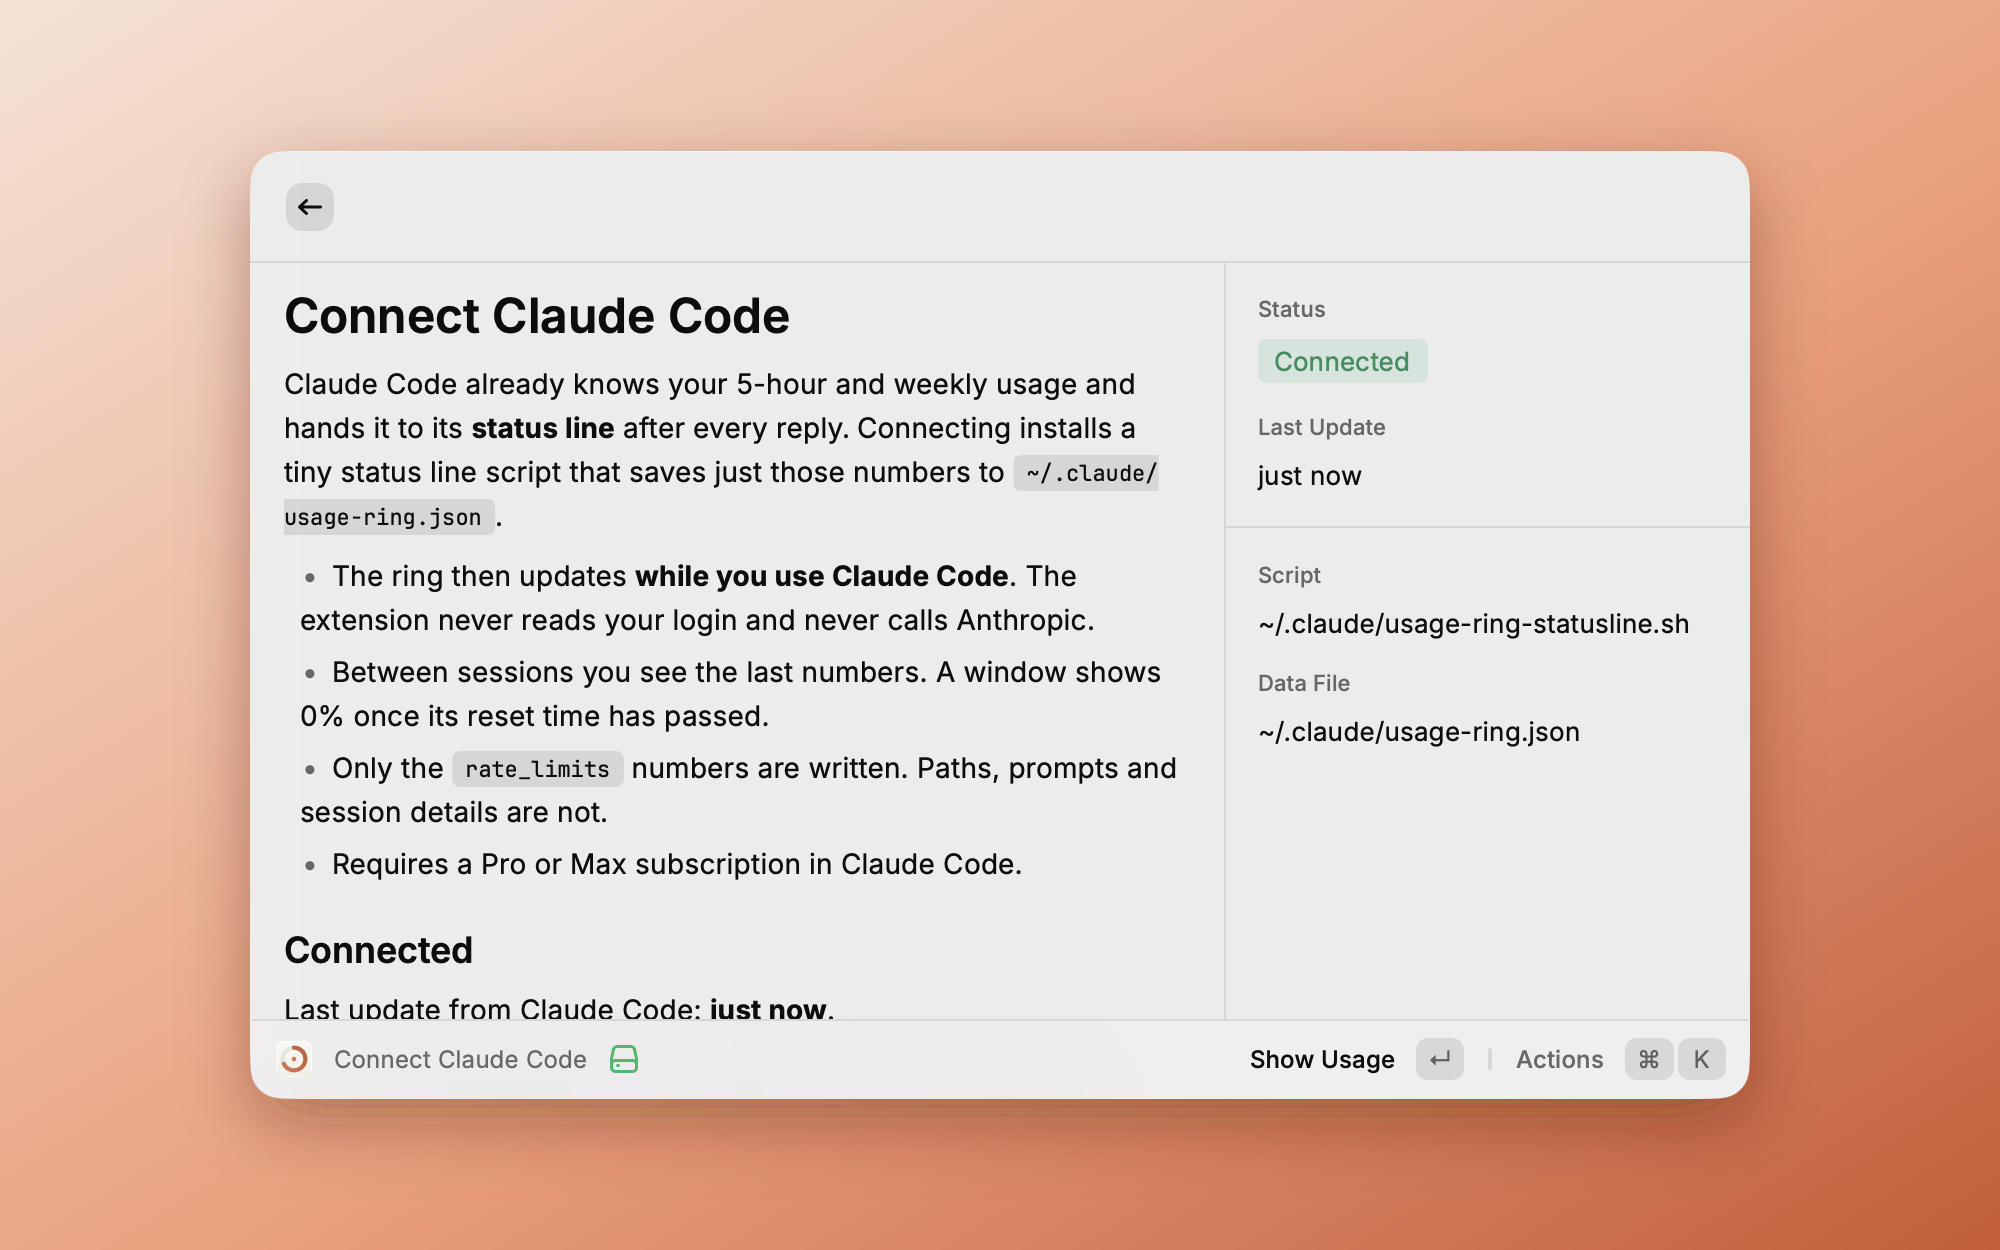
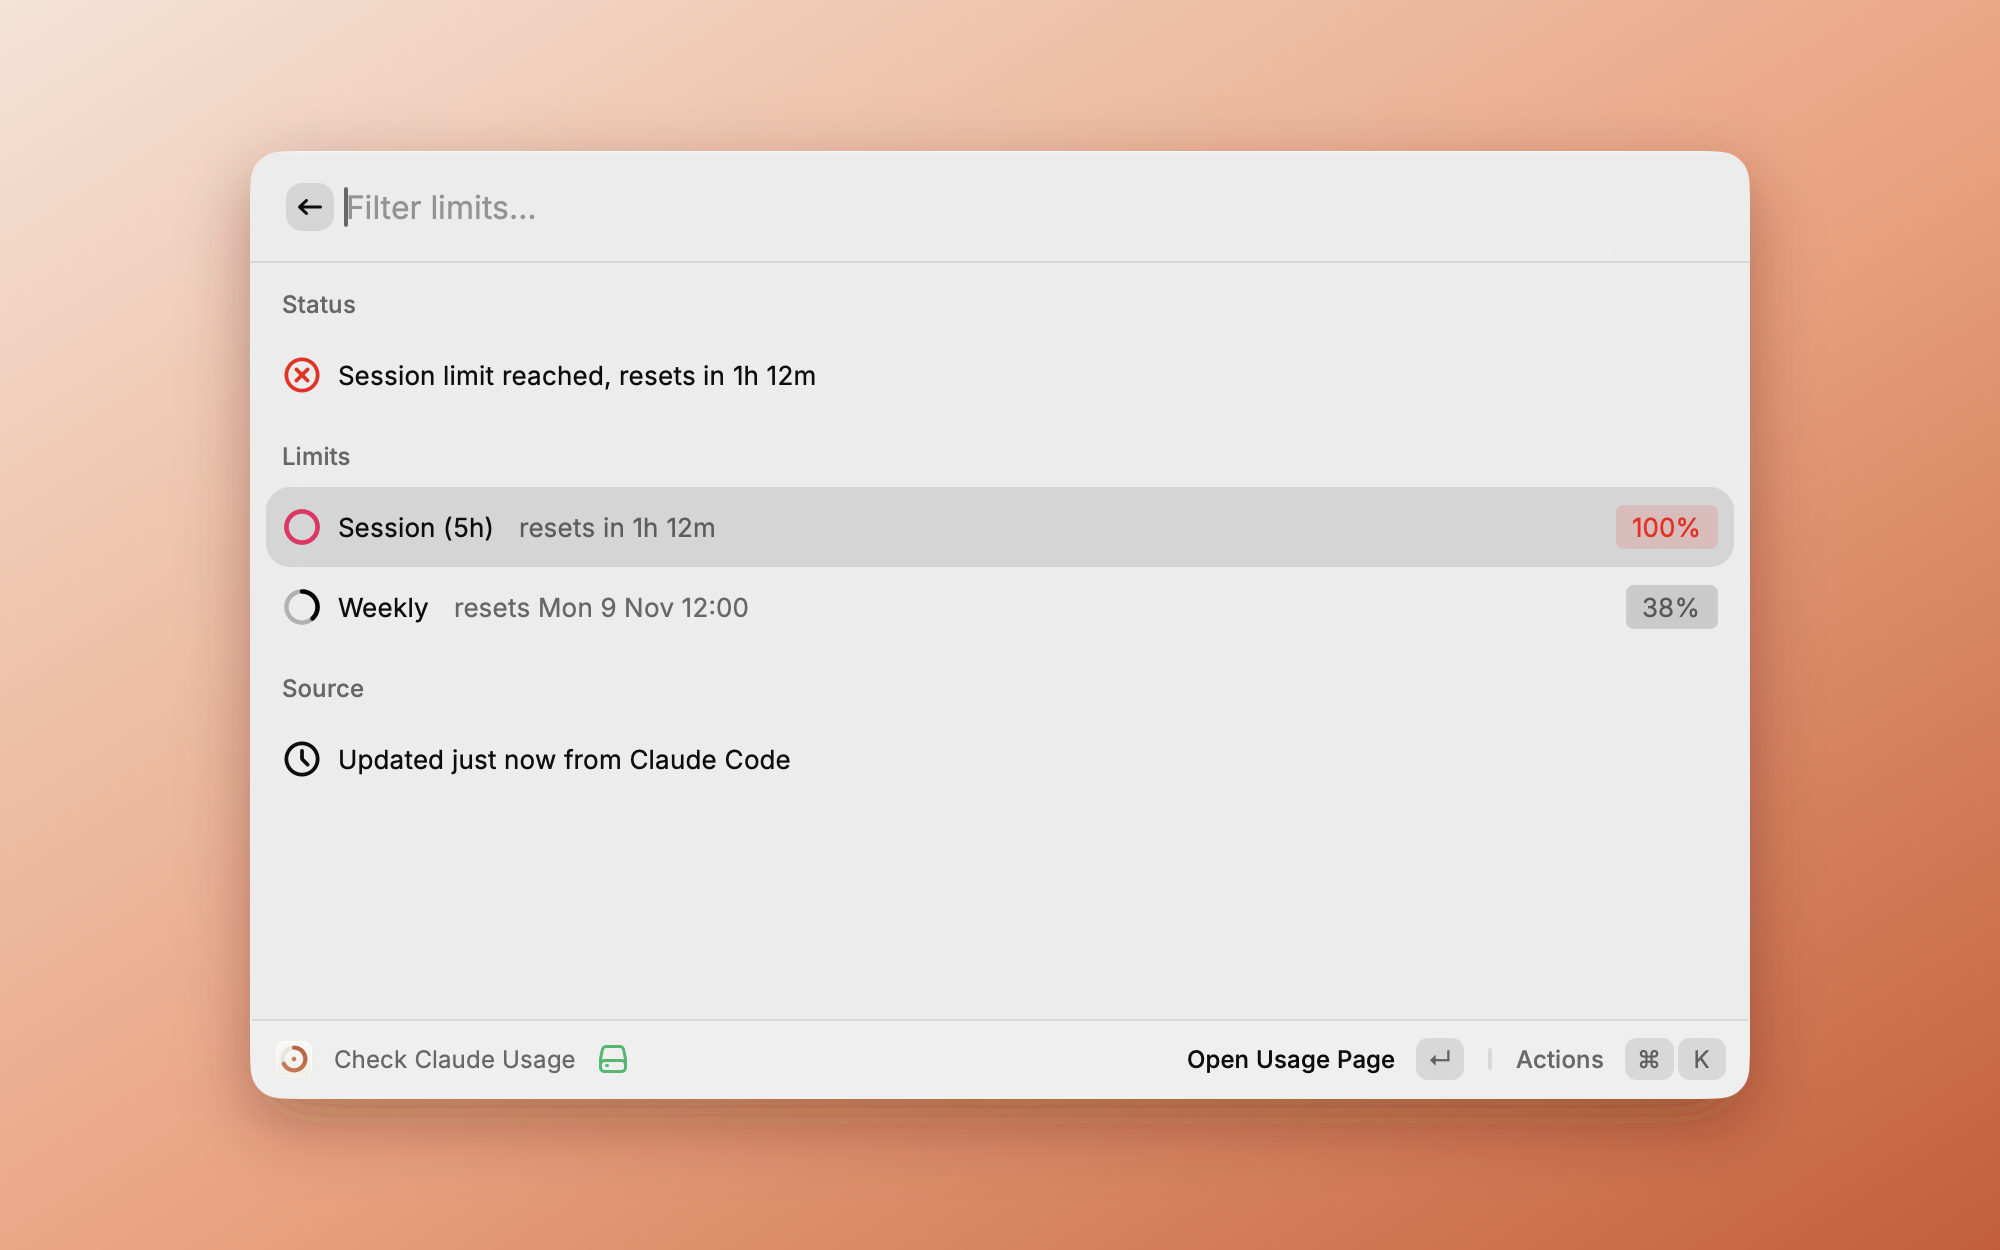
Address second review: connection check, root title, failure toast
- Treat Claude Code as connected only when both the script exists and
  statusLine.command points at it; Connect repairs a missing script
- Show read errors in the list instead of an empty state
- Drop navigationTitle on the root list
- Use showFailureToast for Disconnect errors
- Third Store screenshot (limit reached)

diff --git a/test/bridge.test.ts b/test/bridge.test.ts
@@ -3,7 +3,14 @@ import { existsSync, mkdirSync, mkdtempSync, readFileSync, rmSync, writeFileSync
 import { tmpdir } from "node:os";
 import { join } from "node:path";
 import { afterAll, describe, expect, it } from "vitest";
-import { BRIDGE_COMMAND, buildBridgeScript, isBridgeCommand, withBridge, withoutBridge } from "../src/lib/bridge";
+import {
+  BRIDGE_COMMAND,
+  buildBridgeScript,
+  isBridgeCommand,
+  isBridgeConnected,
+  withBridge,
+  withoutBridge,
+} from "../src/lib/bridge";
 
 const home = mkdtempSync(join(tmpdir(), "usage-ring-home-"));
 mkdirSync(join(home, ".claude"));
@@ -76,5 +83,30 @@ describe("settings transforms", () => {
     expect(isBridgeCommand("~/x.sh")).toBe(false);
     expect(isBridgeCommand(undefined)).toBe(false);
     expect(existsSync(home)).toBe(true);
+  });
+});
+
+describe("isBridgeConnected", () => {
+  const dir = mkdtempSync(join(tmpdir(), "usage-ring-connected-"));
+  const settings = join(dir, "settings.json");
+  const script = join(dir, "usage-ring-statusline.sh");
+  afterAll(() => rmSync(dir, { recursive: true, force: true }));
+
+  it("needs both the script and the status line command", async () => {
+    expect(await isBridgeConnected(settings, script)).toBe(false);
+    writeFileSync(script, "#!/bin/sh\n");
+    expect(await isBridgeConnected(settings, script)).toBe(false);
+    writeFileSync(settings, JSON.stringify({ statusLine: { type: "command", command: BRIDGE_COMMAND } }));
+    expect(await isBridgeConnected(settings, script)).toBe(true);
+  });
+
+  it("is false when the user replaced the status line", async () => {
+    writeFileSync(settings, JSON.stringify({ statusLine: { type: "command", command: "other.sh" } }));
+    expect(await isBridgeConnected(settings, script)).toBe(false);
+  });
+
+  it("is false when settings.json is broken", async () => {
+    writeFileSync(settings, "{");
+    expect(await isBridgeConnected(settings, script)).toBe(false);
   });
 });

diff --git a/src/lib/bridge.ts b/src/lib/bridge.ts
@@ -91,12 +91,17 @@ async function mtime(file: string): Promise<number | null> {
   }
 }
 
+export async function isBridgeConnected(settingsFile = SETTINGS_FILE, script = BRIDGE_SCRIPT): Promise<boolean> {
+  if ((await mtime(script)) === null) return false;
+  const settings = await readJson<Settings>(settingsFile, {}).catch(() => ({}) as Settings);
+  return isBridgeCommand(settings.statusLine?.command);
+}
+
 export async function getBridgeStatus(): Promise<BridgeStatus> {
-  const settings = await readJson<Settings>(SETTINGS_FILE, {}).catch(() => ({}) as Settings);
   const state = await readJson<BridgeState>(BRIDGE_STATE_FILE, { previousStatusLine: null }).catch(() => null);
   const prev = state?.previousStatusLine?.command;
   return {
-    installed: isBridgeCommand(settings.statusLine?.command),
+    installed: await isBridgeConnected(),
     dataUpdatedAt: await mtime(BRIDGE_DATA_FILE),
     passthroughCommand: typeof prev === "string" ? prev : null,
   };
@@ -105,7 +110,12 @@ export async function getBridgeStatus(): Promise<BridgeStatus> {
 export async function installBridge(): Promise<void> {
   await mkdir(CLAUDE_DIR, { recursive: true });
   const settings = await readJson<Settings>(SETTINGS_FILE, {});
-  if (isBridgeCommand(settings.statusLine?.command)) return;
+  if (isBridgeCommand(settings.statusLine?.command)) {
+    const state = await readJson<BridgeState>(BRIDGE_STATE_FILE, { previousStatusLine: null });
+    await writeFile(BRIDGE_SCRIPT, buildBridgeScript(state.previousStatusLine?.command), "utf8");
+    await chmod(BRIDGE_SCRIPT, 0o755);
+    return;
+  }
 
   const { settings: next, previous } = withBridge(settings);
   if (await mtime(SETTINGS_FILE)) await copyFile(SETTINGS_FILE, `${SETTINGS_FILE}.usage-ring.bak`);

diff --git a/src/lib/use-usage.ts b/src/lib/use-usage.ts
@@ -1,13 +1,13 @@
 import { getPreferenceValues, launchCommand, LaunchType, showHUD } from "@raycast/api";
 import { useCachedPromise } from "@raycast/utils";
-import { existsSync } from "node:fs";
 import { EMPTY_STATE, type UsageState } from "../types";
-import { BRIDGE_SCRIPT } from "./bridge";
+import { isBridgeConnected } from "./bridge";
 import { readClaudeCodeUsage } from "./claude-code-source";
 import { MENU_BAR_COMMAND } from "./constants";
 
 export async function loadUsageState(): Promise<UsageState> {
-  return { connected: existsSync(BRIDGE_SCRIPT), usage: await readClaudeCodeUsage() };
+  const [connected, usage] = await Promise.all([isBridgeConnected(), readClaudeCodeUsage()]);
+  return { connected, usage };
 }
 
 export async function syncMenuBar(): Promise<void> {
@@ -24,8 +24,8 @@ export async function openCommand(name: string): Promise<void> {
 
 export function useUsage({ sync = false }: { sync?: boolean } = {}) {
   const prefs = getPreferenceValues<Preferences>();
-  const { data, isLoading, revalidate } = useCachedPromise(loadUsageState, [], {
+  const { data, error, isLoading, revalidate } = useCachedPromise(loadUsageState, [], {
     onData: sync ? syncMenuBar : undefined,
   });
-  return { state: data ?? EMPTY_STATE, prefs, isLoading, revalidate };
+  return { state: data ?? EMPTY_STATE, error, prefs, isLoading, revalidate };
 }

diff --git a/src/check-usage.tsx b/src/check-usage.tsx
@@ -16,9 +16,22 @@ const BANNER_ICONS: Record<Banner["kind"], List.Item.Props["icon"]> = {
 };
 
 export default function Command() {
-  const { state, prefs, isLoading, revalidate } = useUsage({ sync: true });
+  const { state, error, prefs, isLoading, revalidate } = useUsage({ sync: true });
   const view = deriveView(state, prefs, Date.now());
   const actions = <UsageActions view={view} connected={state.connected} onRefresh={revalidate} />;
+
+  if (error && !state.usage) {
+    return (
+      <List isLoading={isLoading}>
+        <List.EmptyView
+          icon={Icon.Warning}
+          title="Couldn't Read Claude Usage"
+          description={error.message}
+          actions={actions}
+        />
+      </List>
+    );
+  }
 
   if (!state.usage) {
     return (
@@ -36,7 +49,7 @@ export default function Command() {
   }
 
   return (
-    <List isLoading={isLoading} navigationTitle="Claude Usage" searchBarPlaceholder="Filter limits">
+    <List isLoading={isLoading} searchBarPlaceholder="Filter limits">
       {view.banners.length > 0 && (
         <List.Section title="Status">
           {view.banners.map((banner) => (

diff --git a/src/connect-claude-code.tsx b/src/connect-claude-code.tsx
@@ -1,5 +1,5 @@
 import { Action, ActionPanel, Alert, confirmAlert, Detail, Icon, showToast, Toast } from "@raycast/api";
-import { usePromise } from "@raycast/utils";
+import { showFailureToast, usePromise } from "@raycast/utils";
 import { BRIDGE_DATA_FILE } from "./lib/claude-code-source";
 import {
   BRIDGE_COMMAND,
@@ -86,11 +86,7 @@ export default function Command() {
       revalidate();
       await syncMenuBar();
     } catch (e) {
-      await showToast({
-        style: Toast.Style.Failure,
-        title: "Couldn't disconnect",
-        message: e instanceof Error ? e.message : String(e),
-      });
+      await showFailureToast(e, { title: "Couldn't disconnect" });
     }
   }
 
